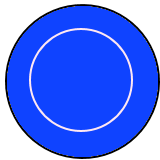
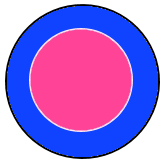
Refactor the user interface in game

diff --git a/static/js/play.js b/static/js/play.js
@@ -2,7 +2,6 @@ var Play = function(game){
 	console.log("Currently at play");
     var players1;
     var players2;
-    var ball;
     //shortcuts for the constant 
     //REM: these params are recognized outside the scope of the prototype and the play.js
     //need to include this in sprite's position to scale properly
@@ -11,12 +10,10 @@ var Play = function(game){
     var input; // get input keyboard
     var borders; //borders position
     var goals; // goal positions
-    //all kinds of text
-    var scoreInfo;
-    var turn;
+    var desinatedPlayer;
 
 }
-var DEBUG = false;
+
 var reset = true;
 var setReset = false; // false before timer has been set
 
@@ -27,6 +24,10 @@ var score1 = 0; // players 1 score (default score right)
 var score2 = 0; // players 2 score (default score left)
 var elapsedTime;
 
+
+//----DEBUG-TOOLS----//
+var DEBUG_TEXT;
+var DEBUG = false;
 
 Play.prototype = {
 
@@ -44,7 +45,7 @@ Play.prototype = {
         this.game.physics.startSystem(Phaser.Physics.P2JS);
         this.game.physics.p2.restitution = 0.8;
 
-        // border field for collision
+        // border and goal
         borders = this.game.add.group();
         goals = this.game.add.group();
 
@@ -57,12 +58,12 @@ Play.prototype = {
         goals.forEach(function(item) {
             item.body.static = true;
         }, this);
+
         //Players
         players1 = this.game.add.group(); 
         players2 = this.game.add.group();
         //set positions of players
         setPlayerPositions(players1, players2, this.game.global.upperSpace);
-        
         //enable physics on players
         this.game.physics.p2.enable(players1);
         this.game.physics.p2.enable(players2);
@@ -79,7 +80,7 @@ Play.prototype = {
             item.body.setCircle((item.width - 2 * objectRatio)/2);
         }, this);
 
-        //init ball
+        //initialize ball
         ball = this.game.world.create(objectRatio * 475 , objectRatio * 250 + this.game.global.upperSpace, 'ball');
         ball.scale.setTo(scale * 0.8);
         ball.anchor.setTo(0.5, 0.5);
@@ -89,17 +90,23 @@ Play.prototype = {
         ball.body.collideWorldBounds = true;
         // ball.body.setZeroDamping();
         console.log("damping is " + ball.body.damping);
-        ball.body.damping = 0.9;
-
-
+        ball.body.damping = 0.99;
+        // console.log(ball);
         //init arrow
         arrow = this.game.world.create(objectRatio * 400, objectRatio * 400, 'arrow');
-        arrow.anchor.setTo(0.5, 0.5);
+        arrow.anchor.setTo(0.5, 0.7);
         arrow.scale.setTo(scale * 5.5, scale * 3.5);
         newScaleX = scale; 
-        input = this.game.input.keyboard.createCursorKeys();
-        //this makes the game excluded from input of the browser
-        this.game.input.keyboard.addKeyCapture([ Phaser.Keyboard.SPACEBAR]);
+        
+        //init star
+        star = this.game.world.create(objectRatio * 400, objectRatio * 400, 'star');
+        star.anchor.setTo(0.5, 0.5);
+        star.scale.setTo(scale, scale);
+        star.visible = false;
+        
+        circle = this.game.world.create(0,0, 'circle');
+        circle.anchor.setTo(0.5, 0.5);
+        circle.visible = false;
 
         //all kinds of scoreInfo
         scoreInfo = this.game.add.text(this.game.world.width /2,  40 * objectRatio  ,score1 +  " : " + score2, {
@@ -109,26 +116,82 @@ Play.prototype = {
         });
         scoreInfo.anchor.setTo(0.5,0.5);
         scoreInfo.scale.setTo(scale * 7);
-        turn = this.game.add.text(this.game.world.width/2, 600 * objectRatio, "", {
+        turnInfo = this.game.add.text(this.game.world.width/2, 600 * objectRatio, "", {
             font: "30px Arial",
             fill: "#ff0044",
             align: "center"
         });
+        teamTurn = 1;
+        if(teamTurn == 1) turnInfo.setText("Team 1's turn");
+        else turnInfo.setText("Team 2's turn");
+        turnInfo.scale.setTo(scale * 7);
+        //---initialize debug tools---//
+        DEBUG_TEXT = this.game.add.text(this.game.world.width/2 - 300 * objectRatio, 600 * objectRatio, "", {
+            font: "30px Arial",
+            fill: "#ff0044",
+            align: "center"
+        });
+        DEBUG_TEXT.scale.setTo(scale * 7);
+
+        //this makes the game excluded from input of the browser
+        this.game.input.keyboard.addKeyCapture([ Phaser.Keyboard.SPACEBAR]);
+        input = this.game.input.keyboard.createCursorKeys();
+        //whenever user clicks the game will set the player to hit the ball
+        this.game.input.onDown.add(this.choosePlayer, this);
+    },
+
+    choosePlayer: function(pointer){ // ball belongs to whom, pointer is the mouse click position
+        var checkWithBodies;
+        // set team bodies to check with
+        if(teamTurn === 1) checkWithBodies = players1.children;
+        else checkWithBodies = players2.children;
+        // bodies contain array of bodies that overlap the point
+        var bodies = this.game.physics.p2.hitTest(pointer.position, checkWithBodies);
+        if(bodies.length === 0){
+            DEBUG_TEXT.setText("Click on a player");
+        } else{
+            if(bodies.length !==1) DEBUG_TEXT.setText("Warning: overlap occurred");
+            else{
+                // console.log(bodies[0].parent.sprite.position);
+                star.position = bodies[0].parent.sprite.position;
+                star.visible = true;
+                this.desinatedPlayer = bodies[0].parent;
+                console.log(this.desinatedPlayer);
+            }
+        }
     },
 
     prepare: function(){
-        if(strength <= 1000){
-            strength = strength + 20;
-            newScaleX = newScaleX *1.04;
-            arrow.scale.setTo(newScaleX, scale * 1.5);
+        if(this.desinatedPlayer !== undefined){
+            touchAt = this.game.input.activePointer.position;
+            arrow.x = this.desinatedPlayer.x;
+            arrow.y = this.desinatedPlayer.y;
+            circle.x = this.desinatedPlayer.x;
+            circle.y = this.desinatedPlayer.y;
+            arrow.rotation = - Phaser.Math.angleBetweenPointsY(this.desinatedPlayer.sprite.position,touchAt);
+            this.desinatedPlayer.rotation =  - Phaser.Math.angleBetweenPointsY(this.desinatedPlayer.sprite.position,touchAt);
+            distance = Phaser.Point.distance(this.desinatedPlayer.sprite.position,touchAt);
+            if(distance <= 400){  // set the property of strength, circle and arrow
+                strength = distance *550;
+                arrowRatio = arrow.width / arrow.height;
+                arrow.height = distance * 2;
+                arrow.width = arrowRatio * arrow.height;
+                circle.width = distance * 2;
+                circle.height = distance * 2;
+                circle.visible = true;
+                arrow.visible = true;
+
+            }  
         }
     },
     shoot: function(){
-        ball.body.thrust(50000);
-        ball.body.setZeroRotation();
-        strength = 0;
-        newScaleX = scale;
-        arrow.scale.setTo(scale, scale * 1.5);
+        if(strength !== 0){
+            this.desinatedPlayer.thrust(strength);
+            this.desinatedPlayer.setZeroRotation();
+            strength = 0;
+            arrow.visible = false; 
+            circle.visible = false;
+        }
     },
 
     goal1: function(){
@@ -153,72 +216,34 @@ Play.prototype = {
         ball.body.velocity.setTo(0);
     },
 
-    chooseBall: function(){ // ball belongs to whom
-        var minDistancefrom1 = Number.MAX_VALUE;
-        var index1 = 0;
-        for (var i = 0; i < players1.children.length; i++) {
-            if(minDistancefrom1 > this.game.physics.arcade.distanceBetween(ball, players1.children[i])){
-                minDistancefrom1 = this.game.physics.arcade.distanceBetween(ball, players1.children[i]);
-                index1 = i;
-            }
-        };
-        var minDistancefrom2 = Number.MAX_VALUE;
-        var index2 = 0;
-        for (var i = 0; i < players1.children.length; i++) {
-            if(minDistancefrom2 > this.game.physics.arcade.distanceBetween(ball, players2.children[i])){
-                minDistancefrom2 = this.game.physics.arcade.distanceBetween(ball, players2.children[i]);
-                index2 = i;
-            }
-        };
-        if(minDistancefrom2 > minDistancefrom1) turn.setText("Ball belongs to team 1");
-        else turn.setText("Ball belongs to team 2");
-    },
-
-
-
     update: function () {
         //check collision
 
-
-
-        //reset the field after goal
+        //reset the field after ball goes into goal
         if(setReset){
             if((this.game.time.now - elapsedTime) > 3800){ // check the timer
                 reset = true;
                 setReset = false;
-                arrow.visible = true;
                 this.resetGoal();
             }
         }
+        if(this.desinatedPlayer != undefined){
+            // DEBUG_TEXT.setText("player is not null");
+        }
         
-        arrow.x = ball.x;
-        arrow.y = ball.y;
-        arrow.rotation = ball.body.rotation;
         // input
-        if(!setReset){
-            if(getSpeed(ball) < 5){
-                this.chooseBall();
-                arrow.visible = true;
-                if (this.game.input.keyboard.isDown(Phaser.Keyboard.SPACEBAR)) this.prepare();  
-                else{// if user intentionally wants to shoot
-                    if(strength > 0 ) this.shoot();
-                }
-                if (input.left.isDown){
-                    ball.body.rotateLeft(100);
-                }
-                else if (input.right.isDown){
-                    ball.body.rotateRight(100);
-                }
-                else{
-                    ball.body.setZeroRotation();
-                }
+        if(!setReset){ // if not resetting
+            if(getSpeed(ball) < 1){
+                if(this.game.input.activePointer.isDown) this.prepare();
+                else this.shoot();
             }else{
                 arrow.visible = false;
+                circle.visible = false;
+                star.visible = false;
                 ball.body.setZeroRotation();
             }
         }
         if(DEBUG){ 
-            // ball.body.setZeroVelocity();
             this.debugCollision();
         }
 
@@ -228,12 +253,6 @@ Play.prototype = {
         // this.game.debug.spriteInfo(ball, 32, 32);
     },
 
-    debugCollision: function(){
-        if (input.left.isDown) {ball.body.moveLeft(500);}   //ball movement
-        else if (input.right.isDown){ball.body.moveRight(500);}
-        else {ball.body.setZeroRotation();}
-        if (input.up.isDown){ball.body.moveUp(500);}
-        else if (input.down.isDown){ball.body.moveDown(500);}
-    }
+
 
 }

diff --git a/static/js/preload.js b/static/js/preload.js
@@ -13,6 +13,8 @@ Preload.prototype = {
         this.game.load.image('arrow', 'static/images/arrow.png');
         this.game.load.image('blank', 'static/images/blank.png');
         this.game.load.image('goal', 'static/images/blank.png');
+        this.game.load.image('star', 'static/images/star.png');
+        this.game.load.image('circle', 'static/images/aim_circle.png');
 	},
 	create: function(){
 		this.game.state.start("Play");

diff --git a/static/js/setup.js b/static/js/setup.js
@@ -102,3 +102,5 @@ function setPlayerPositions(players1, players2, upperSpace){
 function getSpeed(item){
 	return Math.sqrt(item.body.velocity.x * item.body.velocity.x + item.body.velocity.y * item.body.velocity.y);
 }
+
+
